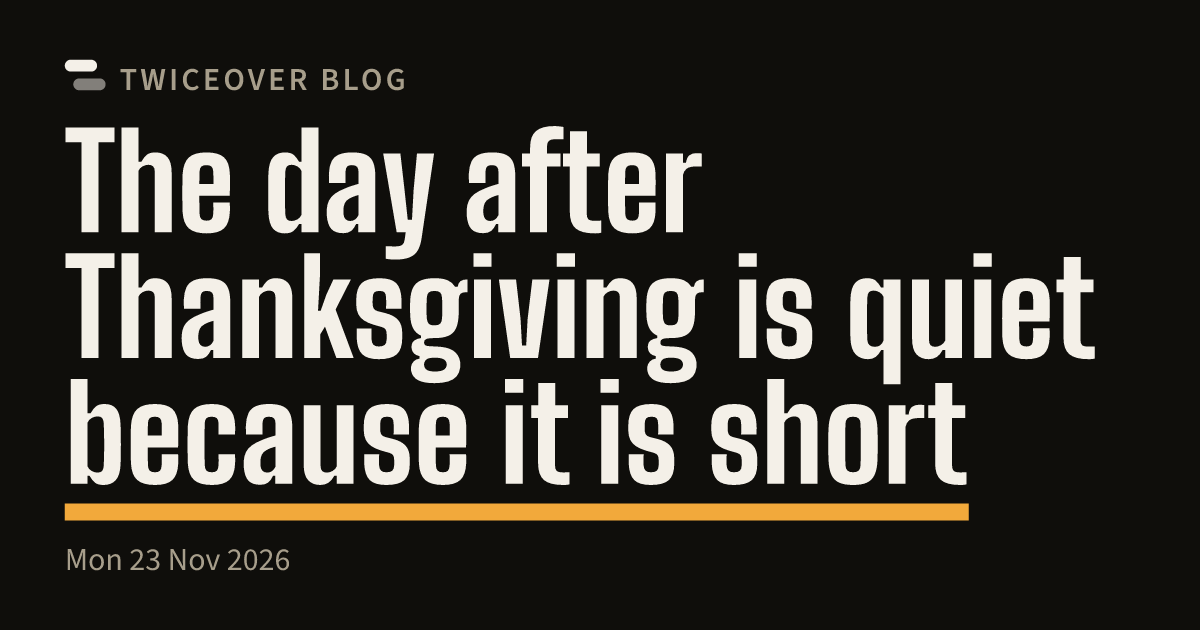
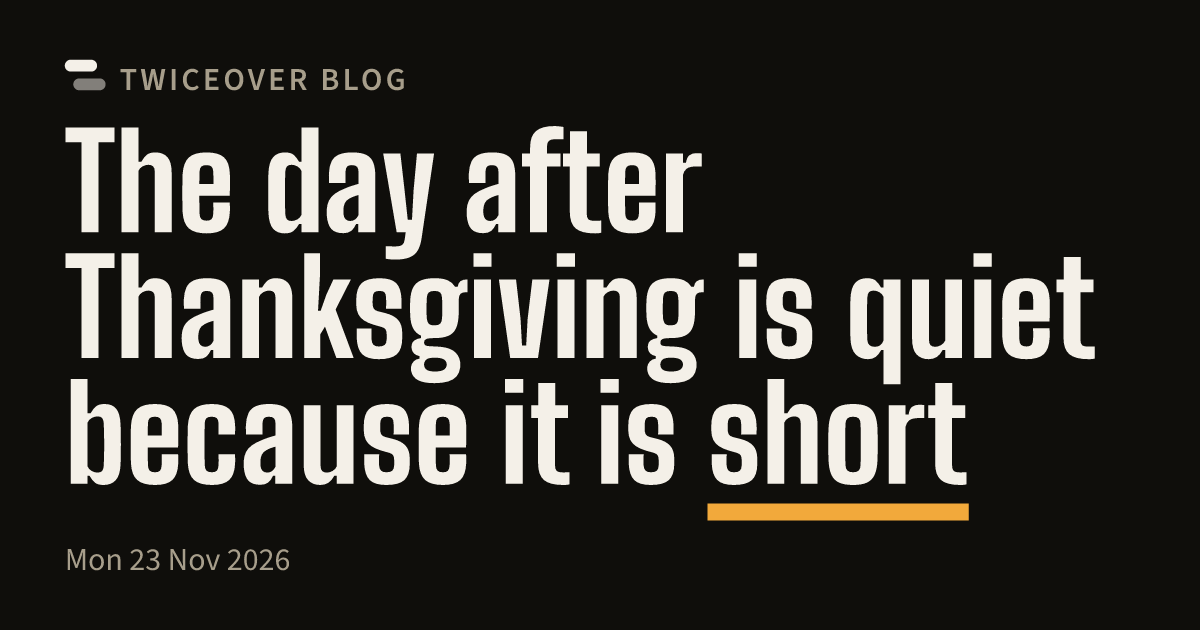
Blog: shorten the highlighted phrase so the index tile does not spill

Changed region(s): [[0.0308, 0.7841, 0.5858, 0.8444]]

diff --git a/src/content/blog/day-after-thanksgiving-half-day.md b/src/content/blog/day-after-thanksgiving-half-day.md
@@ -6,7 +6,7 @@ topic: "market-plumbing"
 lens: "concept"
 build: "text-led"
 look: "night-desk"
-hit: "because it is short"
+hit: "short"
 sources: "Cboe market volume | https://www.cboe.com/markets/us/equities/market-statistics/historical-market-volume; NYSE hours | https://www.nyse.com/trade/hours-calendars; FRED S&P 500 | https://fred.stlouisfed.org/series/SP500; WHO, 26 Nov 2021; FINRA Rule 2360 | https://www.finra.org/rules-guidance/rulebooks/finra-rules/2360"
 ---
 
